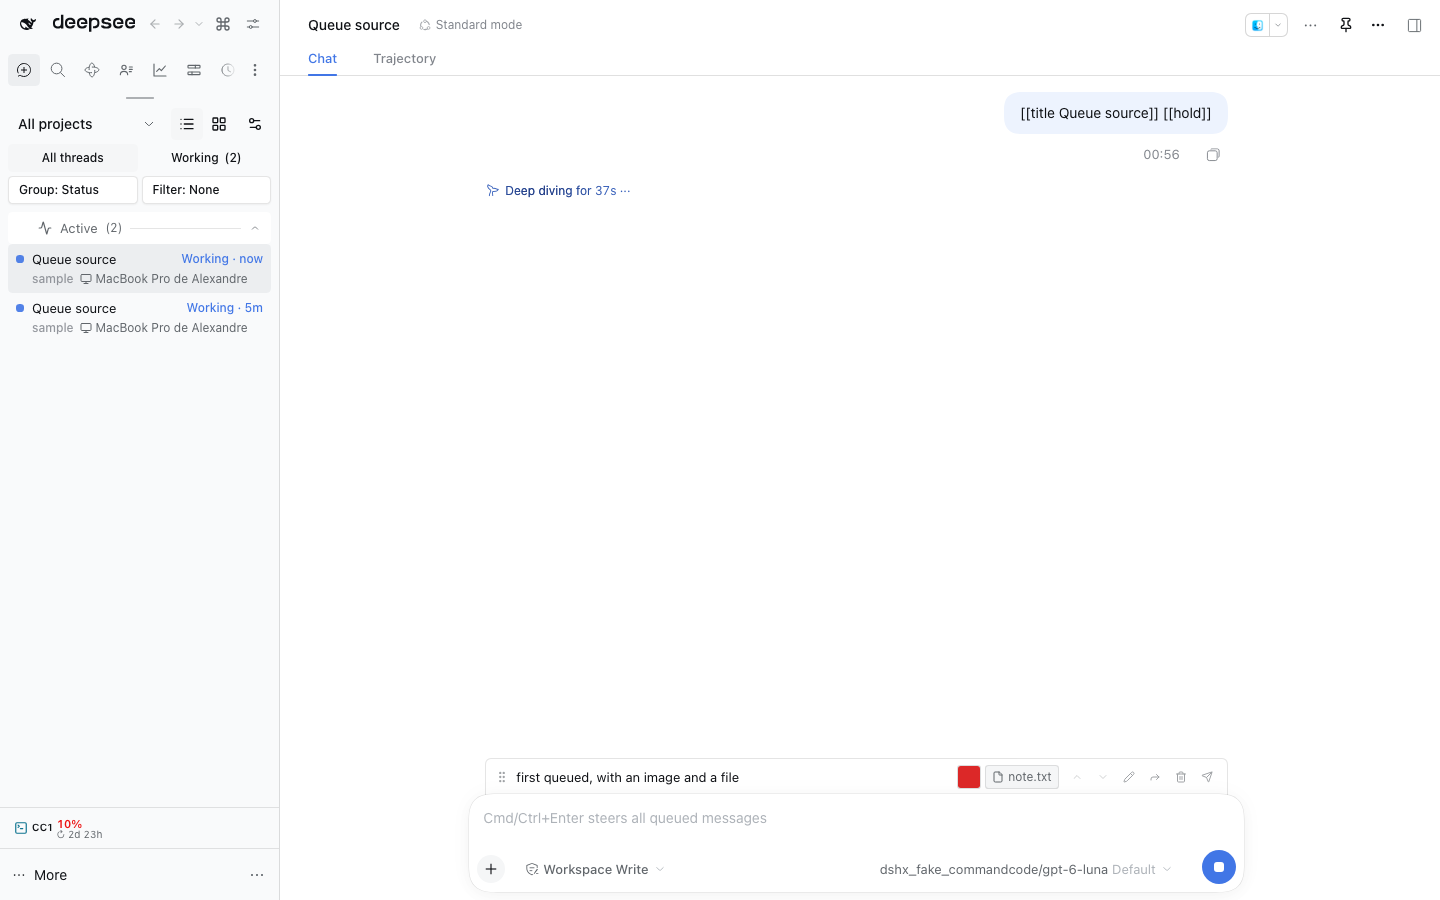
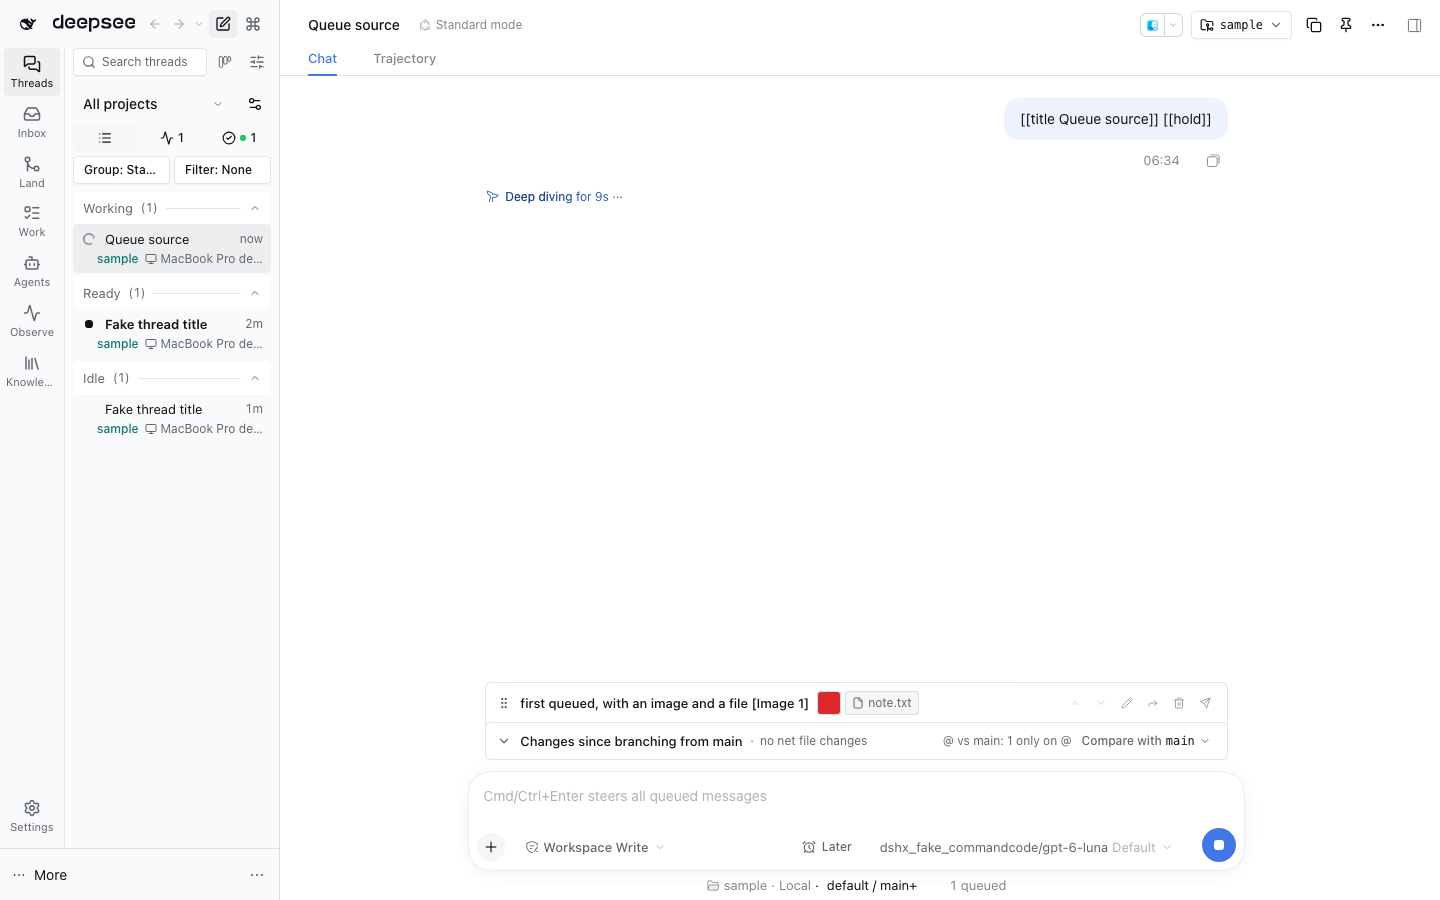
refactor(queue-reorder): draw queued rows with ComposerRow
The queue dock header and message rows used their own 32px height and
padding. ComposerRow aligns them with the other rows above the
composer while the dock keeps its attached panel, drag handle and
per-row verbs.

diff --git a/plugins/@dshfiles/queue-reorder/src/client.tsx b/plugins/@dshfiles/queue-reorder/src/client.tsx
@@ -5,6 +5,7 @@ import { MessageId } from '@deepseek-ai/dsh-llm/brand'
 import { ChevronDownIcon, ChevronUpIcon, ForwardIcon, GripVerticalIcon, ListOrderedIcon, PencilIcon, SendIcon, Trash2Icon } from '@dshfiles/plugin-ui/icons'
 import { useApi, useSettings } from '@dshfiles/dshx/client'
 import { Button } from '@dshfiles/plugin-ui/components/ui/button'
+import { ComposerRow } from '@dshfiles/plugin-ui/components/composer-row'
 import { Tooltip, TooltipContent, TooltipProvider, TooltipTrigger } from '@dshfiles/plugin-ui/components/ui/tooltip'
 import { cn } from '@dshfiles/plugin-ui/lib/utils'
 import { useMutation } from '@dshfiles/plugin-ui/query'
@@ -275,7 +276,7 @@ export const DraggableQueueDock = (props: DockProps): JSX.Element | null => {
     return (
       <li
         className={cn(
-          'dshx:group/row dshx:flex dshx:min-h-8 dshx:items-center dshx:gap-1.5 dshx:rounded-md dshx:px-1 dshx:py-0.5 dshx:hover:bg-accent/50',
+          'dshx:group/row dshx:rounded-md',
           dragId === row.id && 'dshx:opacity-50',
           dropIndex === index && dragId !== row.id && 'dshx:bg-accent dshx:shadow-[inset_0_2px_0_var(--color-primary)]',
         )}
@@ -299,95 +300,103 @@ export const DraggableQueueDock = (props: DockProps): JSX.Element | null => {
           setDropIndex(null)
         }}
       >
-        <span
-          className={cn(
-            'dshx:grid dshx:h-6 dshx:w-4 dshx:flex-none dshx:place-items-center dshx:rounded-sm dshx:text-muted-foreground/60',
-            dragEnabled ? 'dshx:cursor-grab dshx:hover:text-foreground dshx:active:cursor-grabbing' : 'dshx:opacity-40',
-          )}
-          draggable={dragEnabled}
-          aria-hidden
-          onDragStart={event => {
-            setDragId(row.id)
-            event.dataTransfer.setData('text/plain', row.id)
-            event.dataTransfer.effectAllowed = 'move'
-          }}
-          onDragEnd={() => {
-            setDragId(null)
-            setDropIndex(null)
-          }}
-        >
-          <GripVerticalIcon className="dshx:size-3.5" />
-        </span>
-        <PreviewText tooltip={preview} className="dshx:min-w-0 dshx:flex-1 dshx:truncate dshx:text-sm">
-          {text !== ''
-            ? props.renderFactorySlot('conversation.user.text', { text, facts: QUEUE_TEXT_FACTS, interactive: false, ellipsis: true })
-            : preview || (showAttachments && previews.length > 0 ? '' : (files ?? '—'))}
-        </PreviewText>
-        {showAttachments ? <QueuedAttachments sessionId={props.sessionId} previews={previews} readImage={props.readImage} /> : null}
-        {queueMutable ? (
-          <span className="dshx:flex dshx:flex-none dshx:items-center dshx:gap-0.5 dshx:opacity-60 dshx:transition-opacity dshx:group-hover/row:opacity-100 dshx:focus-within:opacity-100">
-            <RowAction
-              label={`Move queued message ${index + 1} up`}
-              tooltip="Move up"
-              disabled={queueEditActive || index === 0 || busy !== null}
-              onClick={() => void move(rowId, 'up')}
+        <ComposerRow
+          variant="plain"
+          icon={
+            <span
+              className={cn('dshx:grid dshx:place-items-center', dragEnabled ? 'dshx:cursor-grab dshx:active:cursor-grabbing' : 'dshx:opacity-40')}
+              draggable={dragEnabled}
+              aria-hidden
+              onDragStart={event => {
+                setDragId(row.id)
+                event.dataTransfer.setData('text/plain', row.id)
+                event.dataTransfer.effectAllowed = 'move'
+              }}
+              onDragEnd={() => {
+                setDragId(null)
+                setDropIndex(null)
+              }}
             >
-              <ChevronUpIcon />
-            </RowAction>
-            <RowAction
-              label={`Move queued message ${index + 1} down`}
-              tooltip="Move down"
-              disabled={queueEditActive || index === rowCount - 1 || busy !== null}
-              onClick={() => void move(rowId, 'down')}
-            >
-              <ChevronDownIcon />
-            </RowAction>
-            <RowAction
-              label="Edit queued message"
-              tooltip={
-                editor === undefined
-                  ? 'This DSH version cannot hand queued messages to the composer'
-                  : row.editable
-                    ? 'Edit in the composer'
-                    : 'This message holds content the composer cannot edit'
-              }
-              disabled={editor === undefined || !row.editable || busy !== null || queueEditActive}
-              onClick={() => void editor?.begin(row)}
-            >
-              <PencilIcon />
-            </RowAction>
-            <RowAction
-              label="Move queued message to another thread"
-              tooltip={
-                !transfer.available
-                  ? 'This DSH version cannot hand queued messages to another thread'
-                  : row.editable
-                    ? 'Move to thread…'
-                    : 'This message holds content that cannot be moved'
-              }
-              disabled={!transfer.available || !row.editable || busy !== null || queueEditActive}
-              onClick={() => transfer.open(row)}
-            >
-              <ForwardIcon />
-            </RowAction>
-            <RowAction
-              label="Remove queued message"
-              tooltip="Remove"
-              disabled={busy !== null || queueEditActive || isBusy}
-              onClick={() => applyAction(rowId, { kind: 'remove' })}
-            >
-              <Trash2Icon />
-            </RowAction>
-            <RowAction
-              label="Steer with queued message"
-              tooltip="Steer"
-              disabled={busy !== null || queueEditActive || !running}
-              onClick={() => applyAction(rowId, { kind: 'steer' })}
-            >
-              <SendIcon />
-            </RowAction>
-          </span>
-        ) : null}
+              <GripVerticalIcon />
+            </span>
+          }
+          label={
+            text !== ''
+              ? props.renderFactorySlot('conversation.user.text', { text, facts: QUEUE_TEXT_FACTS, interactive: false, ellipsis: true })
+              : preview || (showAttachments && previews.length > 0 ? '' : (files ?? '—'))
+          }
+          meta={
+            <>
+              {showAttachments ? <QueuedAttachments sessionId={props.sessionId} previews={previews} readImage={props.readImage} /> : null}
+            </>
+          }
+          actions={
+            queueMutable ? (
+              <span className="dshx:flex dshx:flex-none dshx:items-center dshx:gap-0.5 dshx:opacity-60 dshx:transition-opacity dshx:group-hover/row:opacity-100 dshx:focus-within:opacity-100">
+                <RowAction
+                  label={`Move queued message ${index + 1} up`}
+                  tooltip="Move up"
+                  disabled={queueEditActive || index === 0 || busy !== null}
+                  onClick={() => void move(rowId, 'up')}
+                >
+                  <ChevronUpIcon />
+                </RowAction>
+                <RowAction
+                  label={`Move queued message ${index + 1} down`}
+                  tooltip="Move down"
+                  disabled={queueEditActive || index === rowCount - 1 || busy !== null}
+                  onClick={() => void move(rowId, 'down')}
+                >
+                  <ChevronDownIcon />
+                </RowAction>
+                <RowAction
+                  label="Edit queued message"
+                  tooltip={
+                    editor === undefined
+                      ? 'This DSH version cannot hand queued messages to the composer'
+                      : row.editable
+                        ? 'Edit in the composer'
+                        : 'This message holds content the composer cannot edit'
+                  }
+                  disabled={editor === undefined || !row.editable || busy !== null || queueEditActive}
+                  onClick={() => void editor?.begin(row)}
+                >
+                  <PencilIcon />
+                </RowAction>
+                <RowAction
+                  label="Move queued message to another thread"
+                  tooltip={
+                    !transfer.available
+                      ? 'This DSH version cannot hand queued messages to another thread'
+                      : row.editable
+                        ? 'Move to thread…'
+                        : 'This message holds content that cannot be moved'
+                  }
+                  disabled={!transfer.available || !row.editable || busy !== null || queueEditActive}
+                  onClick={() => transfer.open(row)}
+                >
+                  <ForwardIcon />
+                </RowAction>
+                <RowAction
+                  label="Remove queued message"
+                  tooltip="Remove"
+                  disabled={busy !== null || queueEditActive || isBusy}
+                  onClick={() => applyAction(rowId, { kind: 'remove' })}
+                >
+                  <Trash2Icon />
+                </RowAction>
+                <RowAction
+                  label="Steer with queued message"
+                  tooltip="Steer"
+                  disabled={busy !== null || queueEditActive || !running}
+                  onClick={() => applyAction(rowId, { kind: 'steer' })}
+                >
+                  <SendIcon />
+                </RowAction>
+              </span>
+            ) : undefined
+          }
+        />
       </li>
     )
   }
@@ -400,25 +409,23 @@ export const DraggableQueueDock = (props: DockProps): JSX.Element | null => {
       <div className="dshx-root" data-queue-dock="" style={QUEUE_DOCK_STYLE}>
         <div className="dshx:w-full dshx:overflow-hidden dshx:rounded-t-lg dshx:border dshx:border-b-0 dshx:bg-popover dshx:py-0.5 dshx:text-popover-foreground">
           {listCount > 1 ? (
-            <button
-              type="button"
-              className="dshx:flex dshx:h-8 dshx:w-full dshx:items-center dshx:gap-2 dshx:rounded-md dshx:px-3 dshx:text-left dshx:outline-none dshx:hover:bg-accent/50 dshx:focus-visible:ring-[3px] dshx:focus-visible:ring-ring/50 dshx:disabled:cursor-default dshx:disabled:hover:bg-transparent"
-              aria-controls={listId}
-              aria-expanded={expanded}
-              disabled={interactionActive}
-              onClick={() => setCollapsed(value => !value)}
-            >
-              <span className="dshx:grid dshx:place-items-center dshx:text-muted-foreground" aria-hidden>
-                <ListOrderedIcon className="dshx:size-3.5" />
-              </span>
-              <span className="dshx:text-sm dshx:font-medium">{listCount} queued</span>
-              <span className="dshx:text-xs dshx:text-muted-foreground">top runs first</span>
-              <span className="dshx:ml-auto dshx:grid dshx:place-items-center dshx:text-muted-foreground" aria-hidden>
-                {expanded ? <ChevronUpIcon className="dshx:size-3.5" /> : <ChevronDownIcon className="dshx:size-3.5" />}
-              </span>
-            </button>
+            <ComposerRow
+              variant="plain"
+              icon={<ListOrderedIcon />}
+              label={`${listCount} queued`}
+              meta="top runs first"
+              actions={
+                <span className="dshx:grid dshx:place-items-center dshx:text-muted-foreground" aria-hidden>
+                  {expanded ? <ChevronUpIcon className="dshx:size-3.5" /> : <ChevronDownIcon className="dshx:size-3.5" />}
+                </span>
+              }
+              expanded={expanded}
+              onSelect={interactionActive ? undefined : () => setCollapsed(value => !value)}
+              selectControls={listId}
+              selectLabel={`${listCount} queued, ${expanded ? 'hide' : 'show'} the queued messages`}
+            />
           ) : null}
-          <ul className="dshx:flex dshx:max-h-60 dshx:flex-col dshx:gap-px dshx:overflow-y-auto dshx:px-1 dshx:pb-0.5" id={listId} hidden={!listVisible}>
+          <ul className="dshx:flex dshx:max-h-60 dshx:flex-col dshx:gap-px dshx:overflow-y-auto dshx:pb-0.5" id={listId} hidden={!listVisible}>
             {listVisible ? listItems : null}
           </ul>
           {record !== null && editor !== undefined ? (
